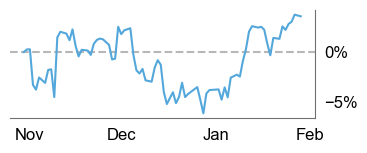
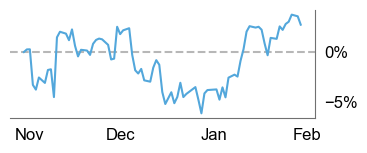
update video demo link

diff --git a/project.py b/project.py
@@ -355,11 +355,11 @@ def main():
         fname = 'static/{}.csv'.format(symbol)
         # download data
         # ----- for testing we can turn this off ----- #
-        # db_download_data(SYMBOLS=[symbols[symbol]],
-        #         SCHEMA='ohlcv-1d',
-        #         START='2022-10-29T00:00',
-        #         END='2023-01-29T00:10',
-        #         safety=False).to_csv(fname)
+        db_download_data(SYMBOLS=[symbols[symbol]],
+                SCHEMA='ohlcv-1d',
+                START='2022-10-30T00:00',
+                END='2023-01-30T00:10',
+                safety=False).to_csv(fname)
         # ----- for testing we can turn this off ----- #
         # read in data
         df = pd.read_csv(fname)

diff --git a/README.md b/README.md
@@ -1,6 +1,6 @@
 # tradingbuddy - [Harvard CS50P](https://www.edx.org/course/cs50s-introduction-to-programming-with-python) final project
 
-#### Video Demo: 
+#### Video Demo: https://youtu.be/Ogssa1nArto
 
 ## about this project...
 
@@ -15,6 +15,7 @@ summary statistics include:
 * 3-month percent return
 
 here's a simple schema of what the .pdf looks like!
+
 ![alt text](static/schema.png)
 
 trading buddy currently supports
